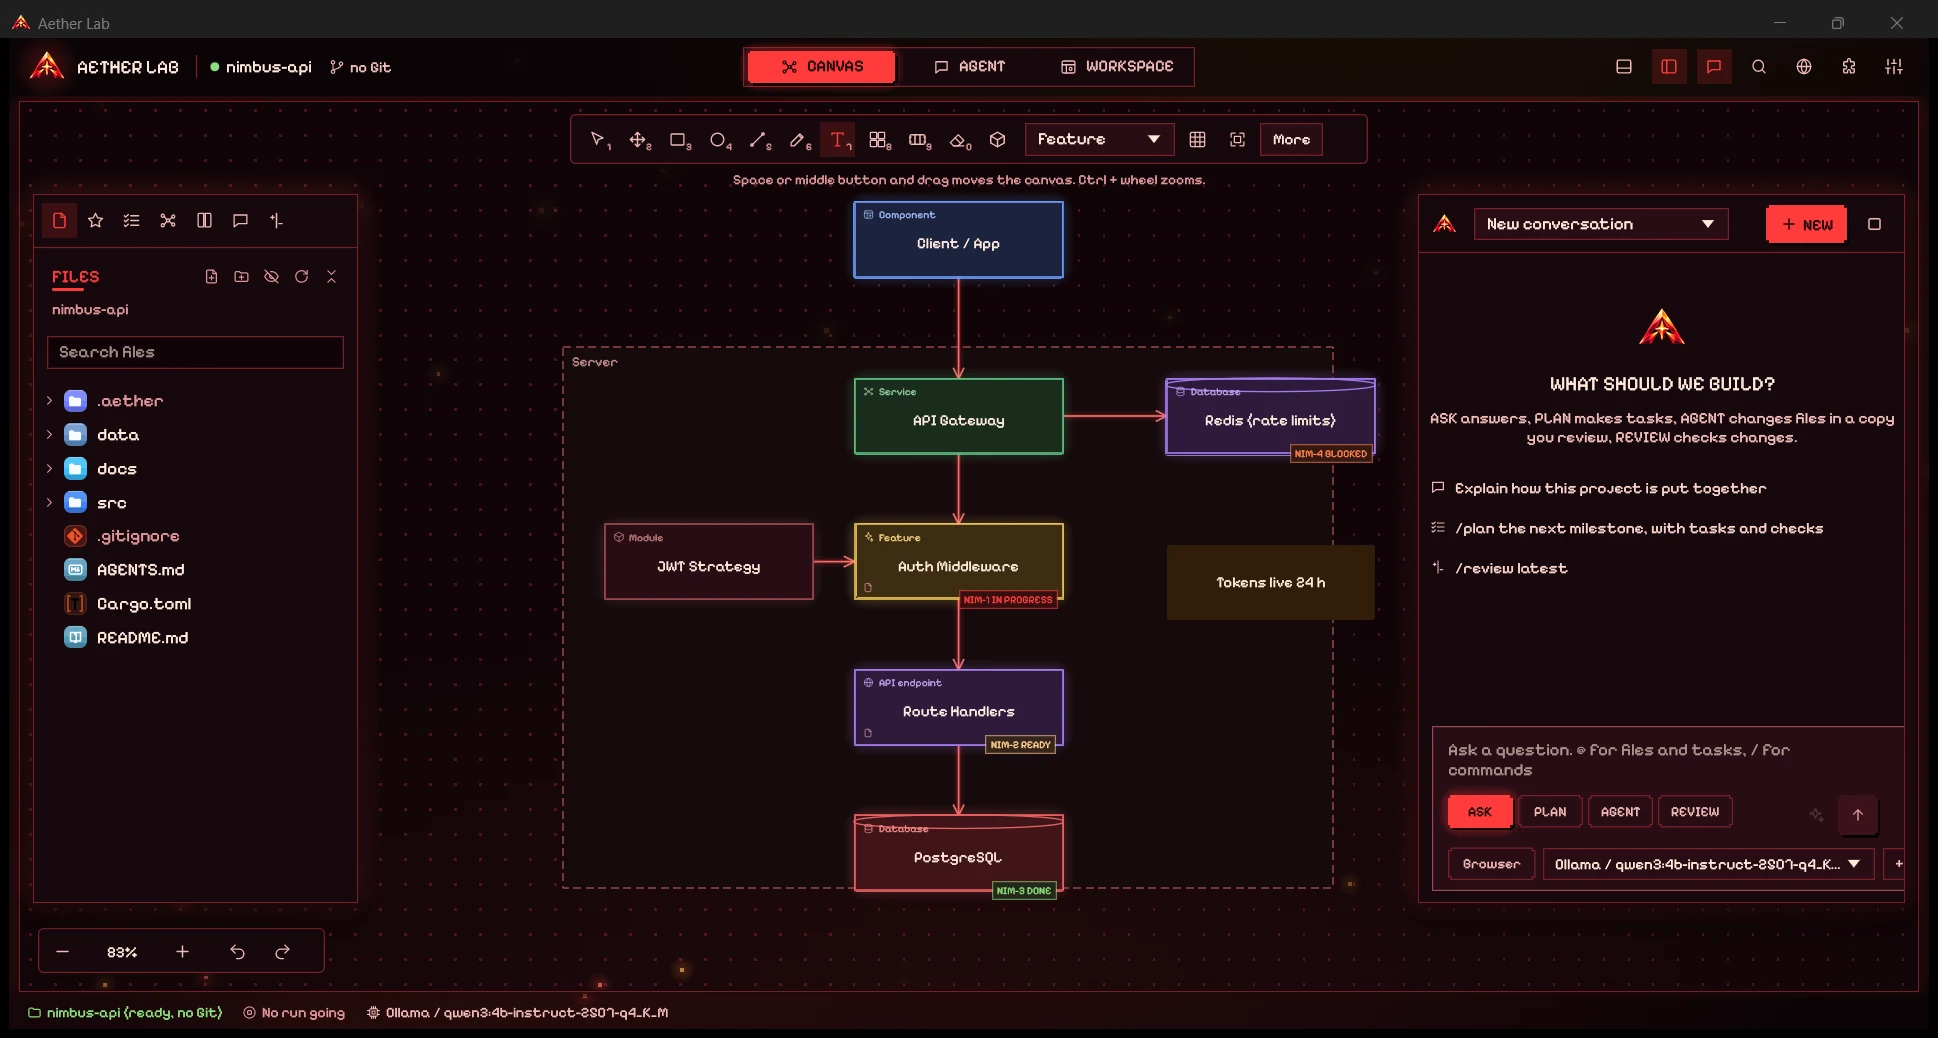
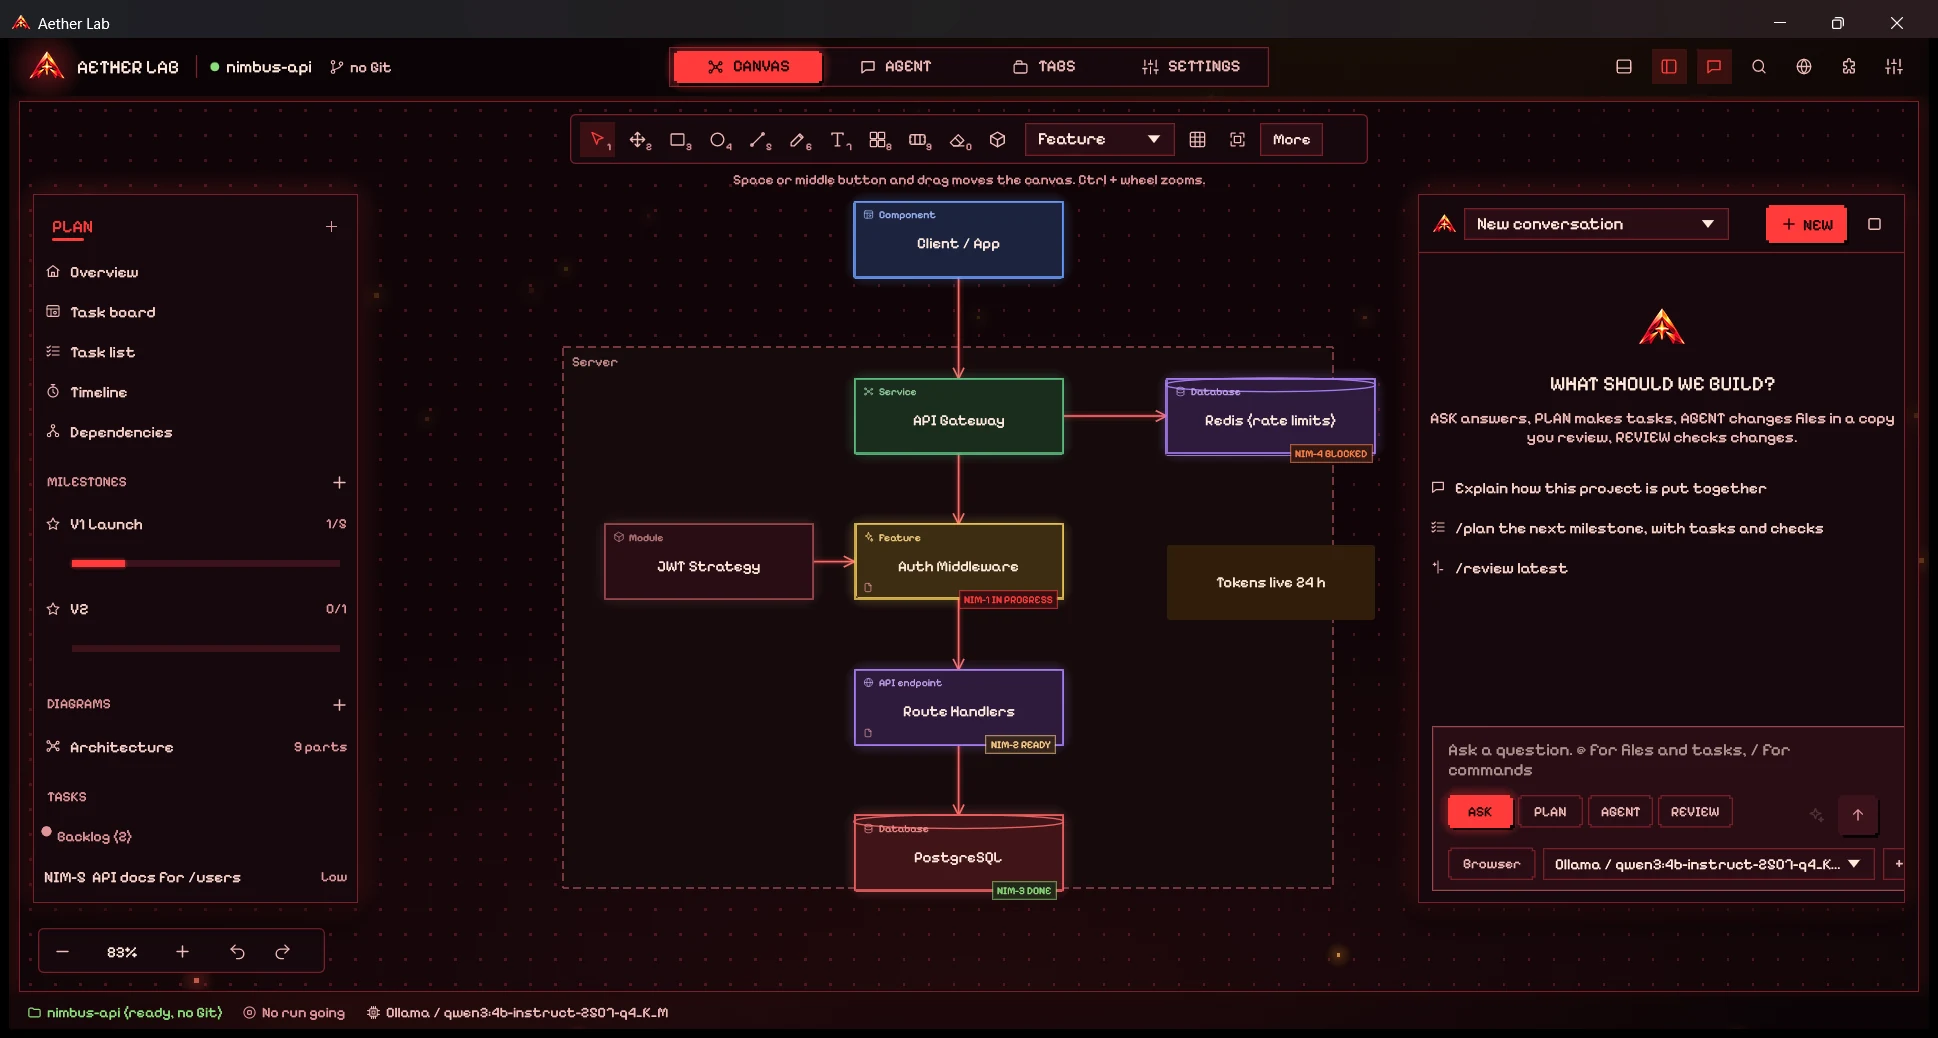
Start-up times of each app, and the new Aether Lab build
- Download page: a chart of how long each app takes to open (first open
  and opening again) and an Opens in row on each card; home: 0.1 s stat
- Aether Lab's fixed build: new installer checksum and a new picture

diff --git a/download.html b/download.html
@@ -14,7 +14,7 @@
   <link rel="preconnect" href="https://fonts.googleapis.com">
   <link rel="preconnect" href="https://fonts.gstatic.com" crossorigin>
   <link href="https://fonts.googleapis.com/css2?family=Inter:wght@400;500;600&family=Space+Grotesk:wght@500;700&display=swap" rel="stylesheet">
-  <link rel="stylesheet" href="assets/css/site.css?v=3">
+  <link rel="stylesheet" href="assets/css/site.css?v=4">
   <script>try{var t=localStorage.getItem('aether-site-theme');if(t&&/Paper/.test(t))document.documentElement.dataset.mode='light'}catch(e){}</script>
 
 </head>
@@ -74,6 +74,8 @@
               <div><dt>Released</dt><dd data-f="date">-</dd></div>
               <div><dt>Download</dt><dd data-f="size">-</dd></div>
               <div><dt>Installed</dt><dd data-f="installed">-</dd></div>
+              <div><dt>Opens in</dt><dd data-f="boot">-</dd></div>
+              <div><dt>First open</dt><dd data-f="bootfirst">-</dd></div>
               <div><dt>Installs to</dt><dd><code>%LOCALAPPDATA%\Programs\Aether</code></dd></div>
               <div><dt>File</dt><dd><code data-f="file">Aether-Setup.exe</code></dd></div>
             </dl>
@@ -95,6 +97,8 @@
               <div><dt>Released</dt><dd data-f="date">-</dd></div>
               <div><dt>Download</dt><dd data-f="size">-</dd></div>
               <div><dt>Installed</dt><dd data-f="installed">-</dd></div>
+              <div><dt>Opens in</dt><dd data-f="boot">-</dd></div>
+              <div><dt>First open</dt><dd data-f="bootfirst">-</dd></div>
               <div><dt>Installs to</dt><dd><code>%LOCALAPPDATA%\Programs\Aether Game Maker</code></dd></div>
               <div><dt>File</dt><dd><code data-f="file">Aether-Game-Maker-Setup.exe</code></dd></div>
             </dl>
@@ -116,6 +120,8 @@
               <div><dt>Released</dt><dd data-f="date">-</dd></div>
               <div><dt>Download</dt><dd data-f="size">-</dd></div>
               <div><dt>Installed</dt><dd data-f="installed">-</dd></div>
+              <div><dt>Opens in</dt><dd data-f="boot">-</dd></div>
+              <div><dt>First open</dt><dd data-f="bootfirst">-</dd></div>
               <div><dt>Installs to</dt><dd><code>%LOCALAPPDATA%\Programs\Aether Lab</code></dd></div>
               <div><dt>File</dt><dd><code data-f="file">Aether-Lab-Setup.exe</code></dd></div>
             </dl>
@@ -155,6 +161,21 @@
           <li class="card" data-r style="--i:1"><b>Open it</b><p>The apps are new and not code-signed yet, so Windows may warn you. Press <b>More info</b>, then <b>Run anyway</b>. No admin rights are needed.</p></li>
           <li class="card" data-r style="--i:2"><b>Start making</b><p>The app is on your Start menu and desktop. Each app keeps its own settings.</p></li>
         </ol>
+      </div>
+    </section>
+
+    <section class="sec" id="speed" aria-labelledby="speed-h" style="padding-top:20px">
+      <div class="wrap-s">
+        <header class="sec-head center">
+          <p class="eyebrow" data-r>Start-up times</p>
+          <h2 class="h2 split" id="speed-h">Open in <span class="g">a blink.</span></h2>
+          <p class="lead" data-r>How long each app takes from the moment you start it until its window is on screen.</p>
+        </header>
+        <div class="boot card" data-r id="boot">
+          <div class="boot-key"><span><i class="k-again"></i>Opening again</span><span><i class="k-first"></i>First open after the PC starts</span></div>
+          <div class="boot-rows"></div>
+          <p class="small boot-how"></p>
+        </div>
       </div>
     </section>
 
@@ -204,7 +225,7 @@
     </div>
   </footer>
 
-  <script src="assets/js/site.js?v=3" defer></script>
+  <script src="assets/js/site.js?v=5" defer></script>
   <script src="assets/js/aurora.js?v=3" defer></script>
   <script src="assets/js/fx.js?v=3" defer></script>
 </body>

diff --git a/assets/css/site.css b/assets/css/site.css
@@ -881,7 +881,7 @@ code { background: var(--glass-2); border: 1px solid var(--line); padding: .08em
 
 /* the download page: one card for each app, with its own installer and its facts */
 :root { --lab1: #ff3b30; --lab2: #ff8a3d; }
-.fam.c-lab, .get.c-lab, .pick-tab.c-lab, .pick-panel.c-lab { --c1: var(--lab1); --c2: var(--lab2); }
+.fam.c-lab, .get.c-lab, .pick-tab.c-lab, .pick-panel.c-lab, .boot-row.c-lab { --c1: var(--lab1); --c2: var(--lab2); }
 .logo-row { display: flex; justify-content: center; gap: clamp(10px, 2vw, 22px); margin-bottom: 10px; }
 .logo-row img { width: clamp(52px, 7vw, 84px); height: auto; filter: drop-shadow(0 14px 34px rgb(0 0 0 / .45)); animation: float 7s ease-in-out infinite; }
 .logo-row img:nth-child(2) { animation-delay: -1.7s; } .logo-row img:nth-child(3) { animation-delay: -3.4s; } .logo-row img:nth-child(4) { animation-delay: -5.1s; }
@@ -963,3 +963,28 @@ code { background: var(--glass-2); border: 1px solid var(--line); padding: .08em
   .nav-get { display: none; }
   .nav.scrolled .nav-in { padding: 0 6px 0 10px; }
 }
+
+/* start-up times: two bars for each app, which grow in when the chart comes into view */
+.boot { padding: clamp(22px, 3vw, 34px); display: grid; gap: 20px; }
+.boot-key { display: flex; flex-wrap: wrap; gap: 8px 22px; font-size: 13.5px; color: var(--muted); }
+.boot-key span { display: inline-flex; align-items: center; gap: 8px; }
+.boot-key i { width: 22px; height: 8px; border-radius: 4px; }
+.boot-key .k-again { background: linear-gradient(90deg, var(--a1), var(--a2)); }
+.boot-key .k-first { background: var(--glass-2); box-shadow: 0 0 0 1px var(--line-2) inset; }
+.boot-rows { display: grid; gap: 18px; }
+.boot-row { display: grid; grid-template-columns: 190px 1fr; gap: 16px; align-items: center; }
+.boot-row.c-ae { --c1: var(--ae1); --c2: var(--ae2); } .boot-row.c-gm { --c1: #7c3aed; --c2: #d23fc8; }
+.boot-name { display: flex; align-items: center; gap: 10px; font-weight: 600; }
+.boot-bars { display: grid; gap: 6px; }
+.boot-bar { position: relative; height: 22px; display: flex; align-items: center; }
+.boot-bar i { display: block; height: 100%; width: var(--w); border-radius: 6px; transform: scaleX(0); transform-origin: left; transition: transform 1.3s var(--ease); }
+.boot-bar.again i { background: linear-gradient(90deg, var(--c1), var(--c2)); box-shadow: 0 0 18px -4px var(--c2); }
+.boot-bar.first i { background: var(--glass-2); box-shadow: 0 0 0 1px var(--line-2) inset; transition-delay: .15s; }
+.boot-bar b { margin-left: 10px; font: 600 13.5px var(--font-m); white-space: nowrap; opacity: 0; transition: opacity .6s .9s; }
+.boot-bar.again b { color: var(--c2); }
+.boot.in .boot-bar i, .boot:not([data-r]) .boot-bar i { transform: scaleX(1); }
+.boot.in .boot-bar b { opacity: 1; }
+.boot-how { margin: 0; }
+[data-style='pixel'] .boot-bar i, [data-style='pixel'] .boot-key i { border-radius: 0; }
+@media (max-width: 640px) { .boot-row { grid-template-columns: 1fr; gap: 8px; } }
+@media (prefers-reduced-motion: reduce) { .boot-bar i { transform: none; transition: none; } .boot-bar b { opacity: 1; transition: none; } }

diff --git a/assets/js/site.js b/assets/js/site.js
@@ -489,8 +489,19 @@ win.<span class="f">on_frame</span>(frame)</pre>
         link.innerHTML = `${ic('download')}Download ${esc(a.name)}<small>${MB(a.size)}</small>`; soon.replaceWith(link);
         const badge = card.querySelector('[data-f="badge"]'); if (badge) { badge.textContent = 'New'; badge.classList.remove('soon'); }
       } else card.querySelectorAll('a[data-file]').forEach((l) => (l.href = url));
+      const secs = (ms) => (ms < 1000 ? (ms / 1000).toFixed(2) : (ms / 1000).toFixed(1)) + ' s';
+      if (a.boot) { set('boot', secs(a.boot.again)); set('bootfirst', secs(a.boot.first)); }
       if (a.features) { const has = card.querySelector('[data-f="has"]'); if (has) has.innerHTML = a.features.map((x) => `<li>${esc(x)}</li>`).join(''); }
     });
+    // the start-up times, as bars
+    const boot = $('#boot');
+    if (boot) {
+      const rows = [['AetherApp', 'Aether', 'c-ae', 'assets/logo-64.png'], ['AetherGameMaker', 'Aether Game Maker', 'c-gm', 'assets/game-maker-logo-64.png'], ['AetherLab', 'Aether Lab', 'c-lab', 'assets/lab-logo-64.png']].filter(([k]) => all[k] && all[k].boot);
+      const top = Math.max(...rows.map(([k]) => all[k].boot.first));
+      const secs = (ms) => (ms < 1000 ? (ms / 1000).toFixed(2) : (ms / 1000).toFixed(1)) + ' s';
+      boot.querySelector('.boot-rows').innerHTML = rows.map(([k, name, c, logo]) => { const b = all[k].boot; return `<div class="boot-row ${c}"><div class="boot-name"><img src="${logo}" alt="" width="28" height="28">${esc(name)}</div><div class="boot-bars"><div class="boot-bar again" style="--w:${Math.max(2, b.again / top * 80).toFixed(1)}%"><i></i><b>${secs(b.again)}</b></div><div class="boot-bar first" style="--w:${(b.first / top * 80).toFixed(1)}%"><i></i><b>${secs(b.first)}</b></div></div></div>`; }).join('');
+      const how = all._boot; if (how) boot.querySelector('.boot-how').textContent = `Measured on ${day(how.measured)} on an ${how.pc}. ${how.how}`;
+    }
     const gm = all.AetherGameMaker; if (gm) $$('a.dl-gm').forEach((l) => (l.href = DL + gm.tag + '/' + gm.file));
     if (ae) $$('a.dl-main').forEach((l) => (l.href = DL + ae.tag + '/' + ae.file));
     const lab = all.AetherLab; if (lab) $$('a.dl-lab').forEach((l) => (l.href = DL + lab.tag + '/' + lab.file));

diff --git a/index.html b/index.html
@@ -14,7 +14,7 @@
   <link rel="preconnect" href="https://fonts.googleapis.com">
   <link rel="preconnect" href="https://fonts.gstatic.com" crossorigin>
   <link href="https://fonts.googleapis.com/css2?family=Inter:wght@400;500;600&family=Space+Grotesk:wght@500;700&display=swap" rel="stylesheet">
-  <link rel="stylesheet" href="assets/css/site.css?v=3">
+  <link rel="stylesheet" href="assets/css/site.css?v=4">
   <script>try{var t=localStorage.getItem('aether-site-theme');if(t&&/Paper/.test(t))document.documentElement.dataset.mode='light'}catch(e){}</script>
   <script>(function(){var h=location.hash,m={'#versions':'download.html#new','#get':'download.html','#download':'download.html','#aether-script':'script.html#aether-script','#story':'aether.html#tour','#live':'aether.html#tools'};if(m[h])location.replace(m[h])})()</script>
 </head>
@@ -196,7 +196,7 @@
       <div class="wrap">
         <div class="stats" data-r>
           <div class="stat"><b class="grad">4</b><span>apps in the family</span></div>
-          <div class="stat"><b class="grad">2.0</b><span>native and fast</span></div>
+          <div class="stat"><b class="grad">0.1 s</b><span>to open Aether</span></div>
           <div class="stat"><b class="grad">Free</b><span>with no account</span></div>
           <div class="stat"><b class="grad">0</b><span>admin rights needed</span></div>
         </div>
@@ -248,7 +248,7 @@
     </div>
   </footer>
 
-  <script src="assets/js/site.js?v=3" defer></script>
+  <script src="assets/js/site.js?v=5" defer></script>
   <script src="assets/js/aurora.js?v=3" defer></script>
   <script src="assets/js/fx.js?v=3" defer></script>
 </body>

diff --git a/script.html b/script.html
@@ -14,7 +14,7 @@
   <link rel="preconnect" href="https://fonts.googleapis.com">
   <link rel="preconnect" href="https://fonts.gstatic.com" crossorigin>
   <link href="https://fonts.googleapis.com/css2?family=Inter:wght@400;500;600&family=Space+Grotesk:wght@500;700&display=swap" rel="stylesheet">
-  <link rel="stylesheet" href="assets/css/site.css?v=3">
+  <link rel="stylesheet" href="assets/css/site.css?v=4">
   <script>try{var t=localStorage.getItem('aether-site-theme');if(t&&/Paper/.test(t))document.documentElement.dataset.mode='light'}catch(e){}</script>
 
 </head>
@@ -181,7 +181,7 @@ row.<span class="f">button</span>(<span class="s">"Close"</span>, win.close)</pr
     </div>
   </footer>
 
-  <script src="assets/js/site.js?v=3" defer></script>
+  <script src="assets/js/site.js?v=5" defer></script>
   <script src="assets/js/aurora.js?v=3" defer></script>
   <script src="assets/js/fx.js?v=3" defer></script>
 </body>

diff --git a/aether.html b/aether.html
@@ -14,7 +14,7 @@
   <link rel="preconnect" href="https://fonts.googleapis.com">
   <link rel="preconnect" href="https://fonts.gstatic.com" crossorigin>
   <link href="https://fonts.googleapis.com/css2?family=Inter:wght@400;500;600&family=Space+Grotesk:wght@500;700&display=swap" rel="stylesheet">
-  <link rel="stylesheet" href="assets/css/site.css?v=3">
+  <link rel="stylesheet" href="assets/css/site.css?v=4">
   <script>try{var t=localStorage.getItem('aether-site-theme');if(t&&/Paper/.test(t))document.documentElement.dataset.mode='light'}catch(e){}</script>
 
 </head>
@@ -281,7 +281,7 @@
     </div>
   </footer>
 
-  <script src="assets/js/site.js?v=3" defer></script>
+  <script src="assets/js/site.js?v=5" defer></script>
   <script src="assets/js/aurora.js?v=3" defer></script>
   <script src="assets/js/fx.js?v=3" defer></script>
 </body>

diff --git a/game-maker.html b/game-maker.html
@@ -14,7 +14,7 @@
   <link rel="preconnect" href="https://fonts.googleapis.com">
   <link rel="preconnect" href="https://fonts.gstatic.com" crossorigin>
   <link href="https://fonts.googleapis.com/css2?family=Inter:wght@400;500;600&family=Space+Grotesk:wght@500;700&display=swap" rel="stylesheet">
-  <link rel="stylesheet" href="assets/css/site.css?v=3">
+  <link rel="stylesheet" href="assets/css/site.css?v=4">
   <script>try{var t=localStorage.getItem('aether-site-theme');if(t&&/Paper/.test(t))document.documentElement.dataset.mode='light'}catch(e){}</script>
 
 </head>
@@ -225,7 +225,7 @@
     </div>
   </footer>
 
-  <script src="assets/js/site.js?v=3" defer></script>
+  <script src="assets/js/site.js?v=5" defer></script>
   <script src="assets/js/aurora.js?v=3" defer></script>
   <script src="assets/js/fx.js?v=3" defer></script>
 </body>

diff --git a/lab.html b/lab.html
@@ -14,7 +14,7 @@
   <link rel="preconnect" href="https://fonts.googleapis.com">
   <link rel="preconnect" href="https://fonts.gstatic.com" crossorigin>
   <link href="https://fonts.googleapis.com/css2?family=Inter:wght@400;500;600&family=Space+Grotesk:wght@500;700&display=swap" rel="stylesheet">
-  <link rel="stylesheet" href="assets/css/site.css?v=3">
+  <link rel="stylesheet" href="assets/css/site.css?v=4">
   <script>try{var t=localStorage.getItem('aether-site-theme');if(t&&/Paper/.test(t))document.documentElement.dataset.mode='light'}catch(e){}</script>
 
 </head>
@@ -246,7 +246,7 @@
     </div>
   </footer>
 
-  <script src="assets/js/site.js?v=3" defer></script>
+  <script src="assets/js/site.js?v=5" defer></script>
   <script src="assets/js/aurora.js?v=3" defer></script>
   <script src="assets/js/fx.js?v=3" defer></script>
 </body>
